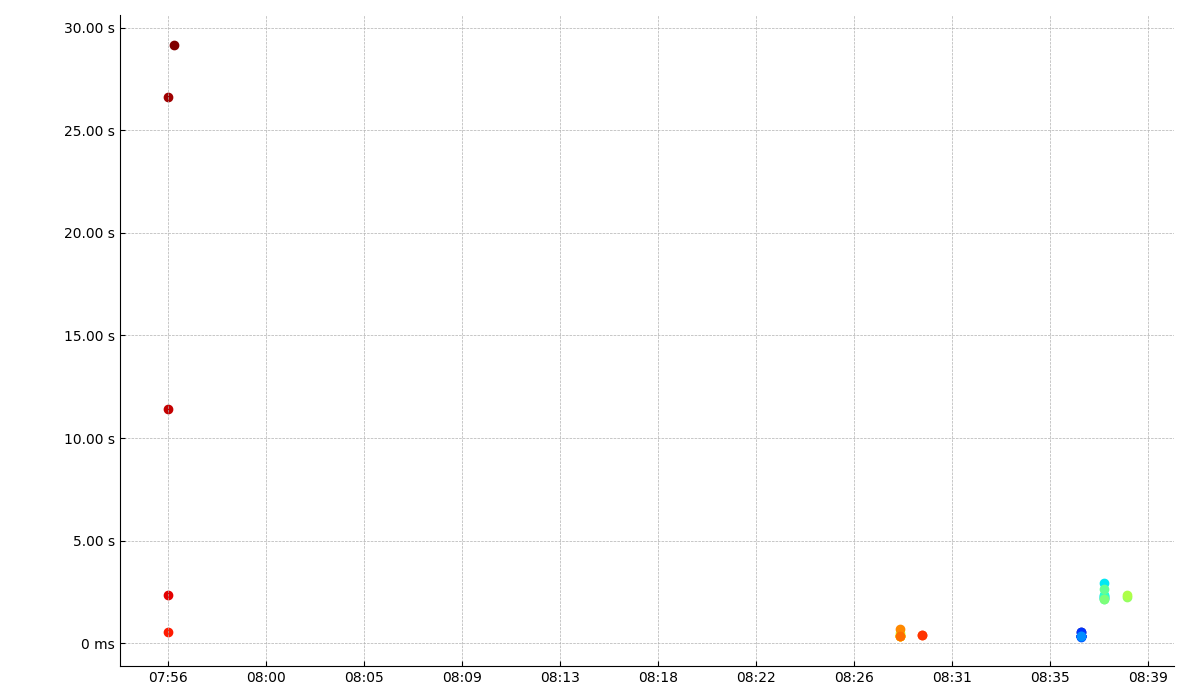
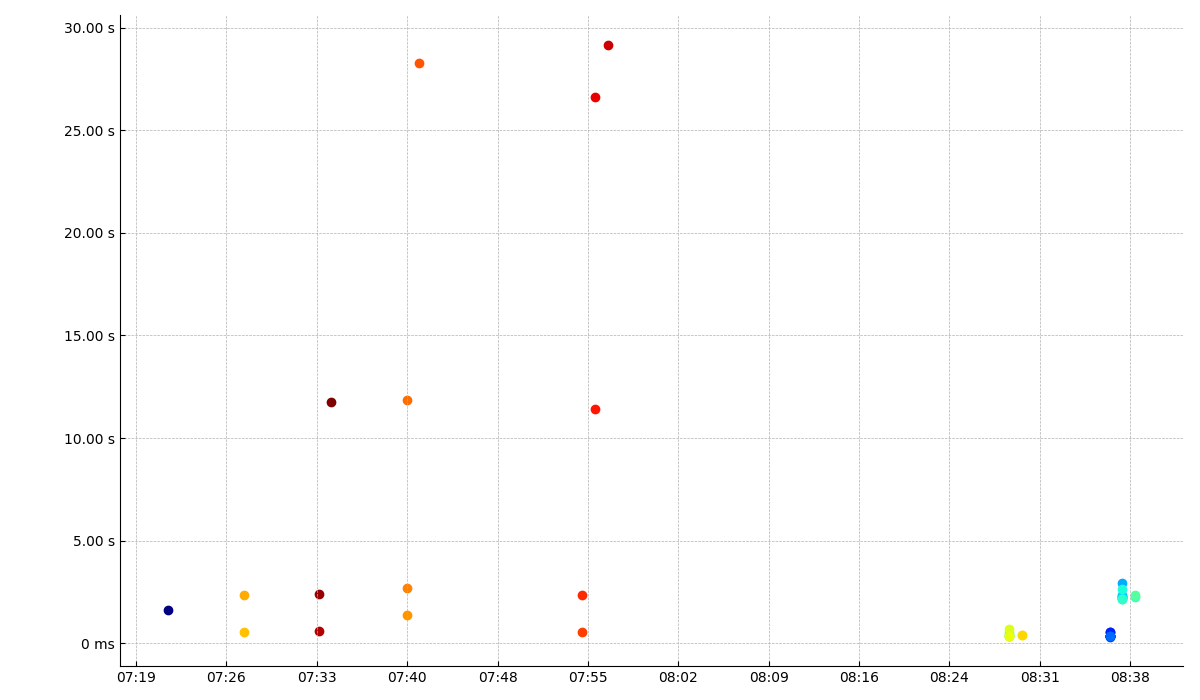
Deployed 4de4586 to 30-01-2024 with MkDocs 1.5.3 and mike 2.0.0

diff --git a/30-01-2024/report/amphora/getSecret/getSecret_response_times/index.html b/30-01-2024/report/amphora/getSecret/getSecret_response_times/index.html
@@ -1705,6 +1705,18 @@
 </thead>
 <tbody>
 <tr>
+<td>getSecret_1000</td>
+<td>1</td>
+<td>1591</td>
+<td>1591</td>
+<td>1591</td>
+<td>1591</td>
+<td>1591</td>
+<td>1591</td>
+<td>1591</td>
+<td>nan</td>
+</tr>
+<tr>
 <td>getSecret_10000_repeat_10</td>
 <td>20</td>
 <td>319</td>
@@ -1714,7 +1726,7 @@
 <td>2888</td>
 <td>2943</td>
 <td>1371</td>
-<td>1034</td>
+<td>1034.0</td>
 </tr>
 <tr>
 <td>getSecret_1000_repeat_10</td>
@@ -1726,7 +1738,31 @@
 <td>649</td>
 <td>667</td>
 <td>398</td>
-<td>103</td>
+<td>103.0</td>
+</tr>
+<tr>
+<td>getSecret_11000</td>
+<td>2</td>
+<td>555</td>
+<td>1445</td>
+<td>1890</td>
+<td>2246</td>
+<td>2317</td>
+<td>2335</td>
+<td>1445</td>
+<td>1258.0</td>
+</tr>
+<tr>
+<td>getSecret_161000</td>
+<td>4</td>
+<td>1383</td>
+<td>7255</td>
+<td>15951</td>
+<td>25819</td>
+<td>27793</td>
+<td>28287</td>
+<td>11045</td>
+<td>12401.0</td>
 </tr>
 <tr>
 <td>getSecret_261000</td>
@@ -1738,7 +1774,19 @@
 <td>29080</td>
 <td>29183</td>
 <td>14017</td>
-<td>13355</td>
+<td>13355.0</td>
+</tr>
+<tr>
+<td>getSecret_61000</td>
+<td>3</td>
+<td>591</td>
+<td>2383</td>
+<td>7079</td>
+<td>10835</td>
+<td>11587</td>
+<td>11775</td>
+<td>4916</td>
+<td>6006.0</td>
 </tr>
 </tbody>
 </table>

diff --git a/30-01-2024/report/amphora/createSecret/createSecret_response_times/index.html b/30-01-2024/report/amphora/createSecret/createSecret_response_times/index.html
@@ -1705,6 +1705,42 @@
 </thead>
 <tbody>
 <tr>
+<td>createSecret_1000</td>
+<td>1</td>
+<td>995</td>
+<td>995</td>
+<td>995</td>
+<td>995</td>
+<td>995</td>
+<td>995</td>
+<td>995</td>
+<td>nan</td>
+</tr>
+<tr>
+<td>createSecret_10000</td>
+<td>1</td>
+<td>1623</td>
+<td>1623</td>
+<td>1623</td>
+<td>1623</td>
+<td>1623</td>
+<td>1623</td>
+<td>1623</td>
+<td>nan</td>
+</tr>
+<tr>
+<td>createSecret_100000</td>
+<td>1</td>
+<td>10687</td>
+<td>10687</td>
+<td>10687</td>
+<td>10687</td>
+<td>10687</td>
+<td>10687</td>
+<td>10687</td>
+<td>nan</td>
+</tr>
+<tr>
 <td>createSecret_100000_repeat_5</td>
 <td>5</td>
 <td>9343</td>
@@ -1762,6 +1798,18 @@
 <td>44031</td>
 <td>44031</td>
 <td>44031</td>
+<td>nan</td>
+</tr>
+<tr>
+<td>createSecret_50000</td>
+<td>1</td>
+<td>5535</td>
+<td>5535</td>
+<td>5535</td>
+<td>5535</td>
+<td>5535</td>
+<td>5535</td>
+<td>5535</td>
 <td>nan</td>
 </tr>
 <tr>

diff --git a/30-01-2024/report/amphora/deleteSecret/deleteSecret_response_times/index.html b/30-01-2024/report/amphora/deleteSecret/deleteSecret_response_times/index.html
@@ -1636,15 +1636,15 @@
 <tbody>
 <tr>
 <td>deleteSecret_all_</td>
-<td>7</td>
-<td>39</td>
+<td>29</td>
+<td>35</td>
+<td>46</td>
 <td>61</td>
-<td>85</td>
-<td>273</td>
-<td>329</td>
+<td>222</td>
+<td>328</td>
 <td>343</td>
-<td>100</td>
-<td>109</td>
+<td>73</td>
+<td>71</td>
 </tr>
 </tbody>
 </table>
